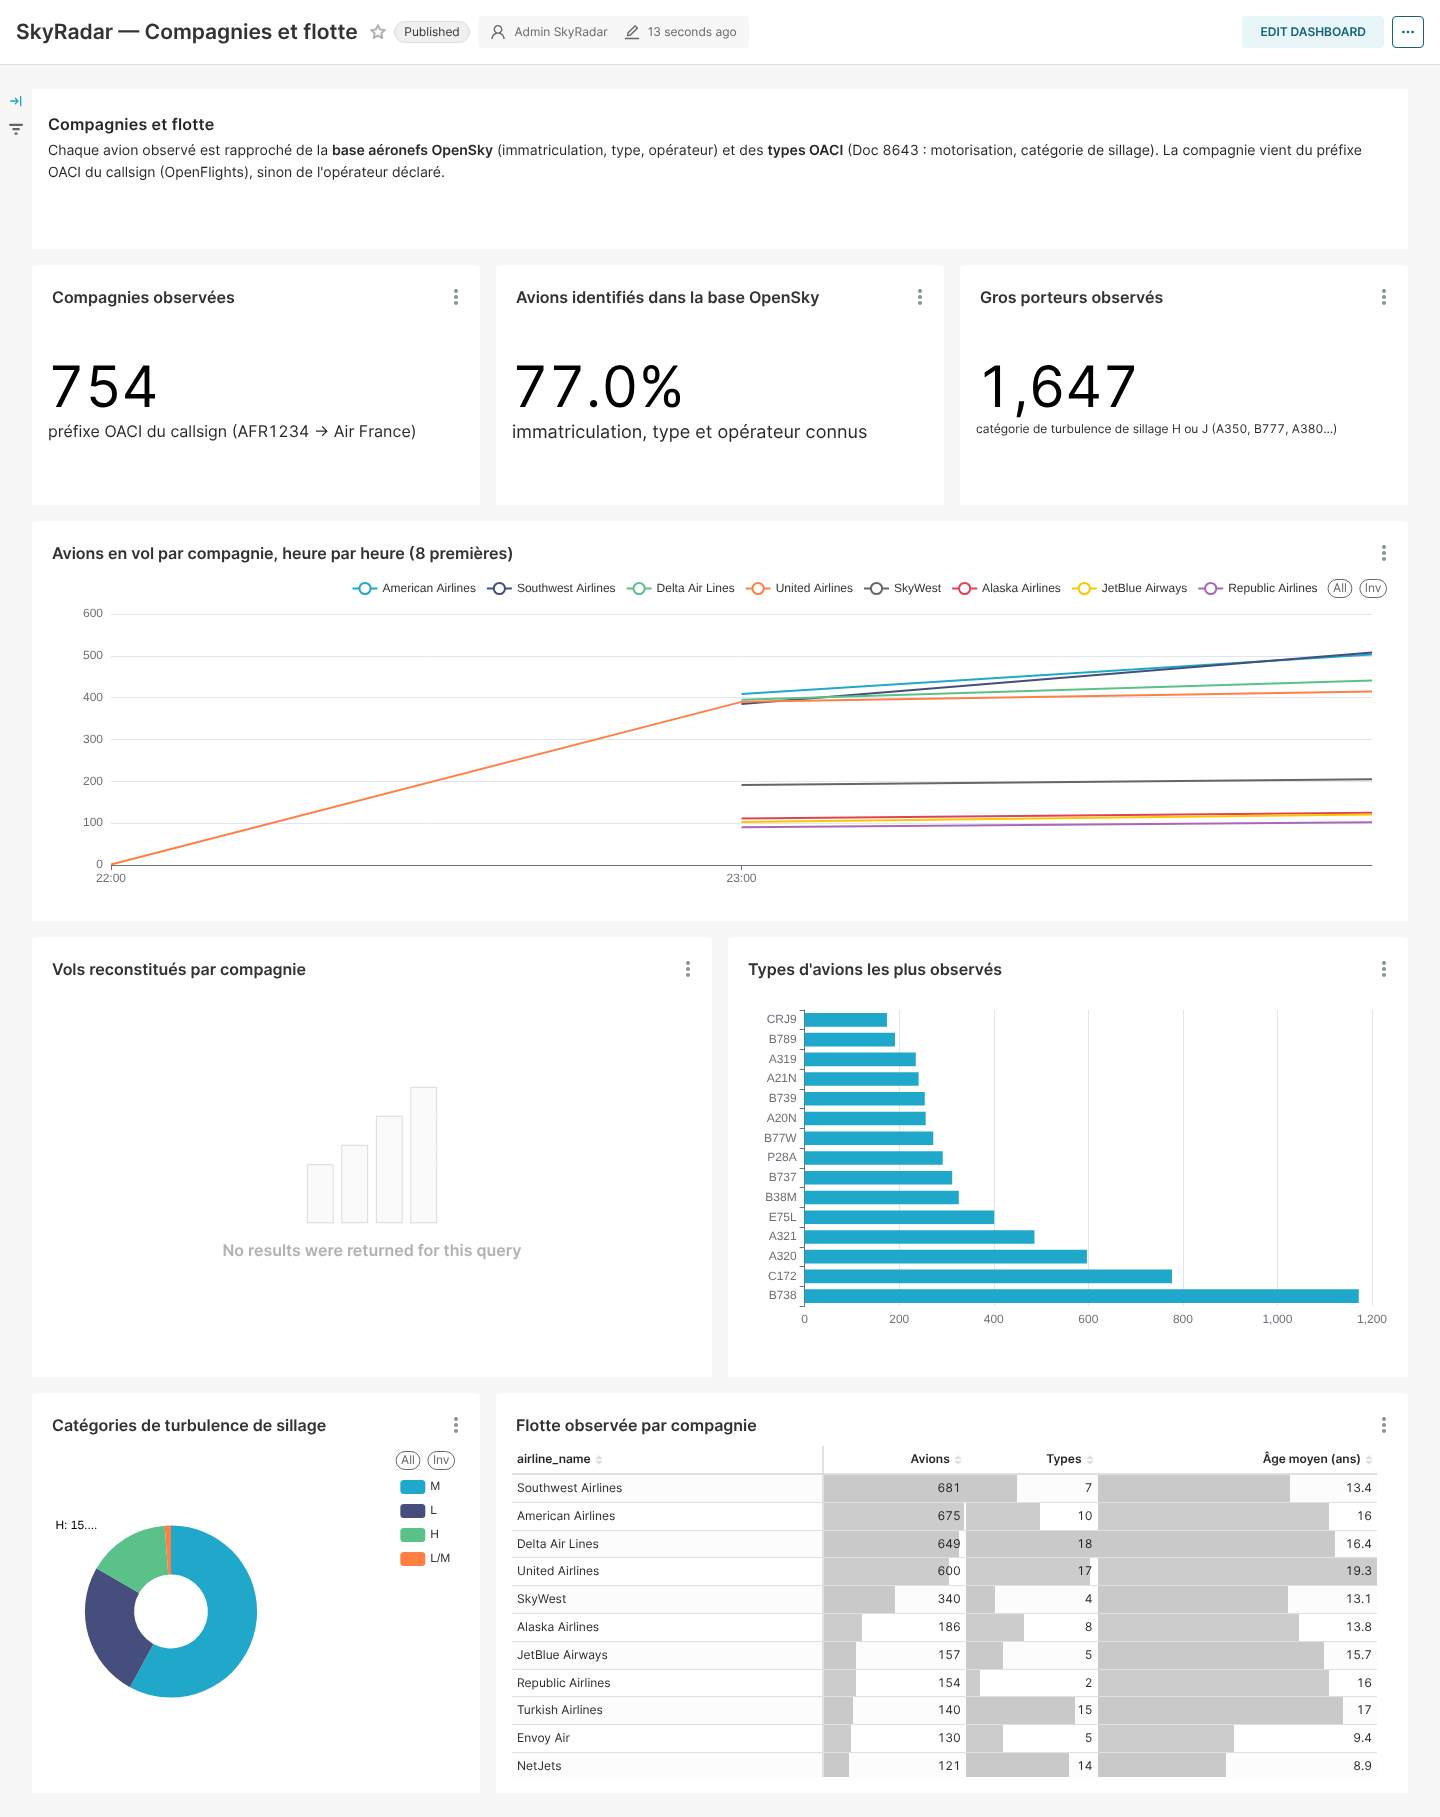
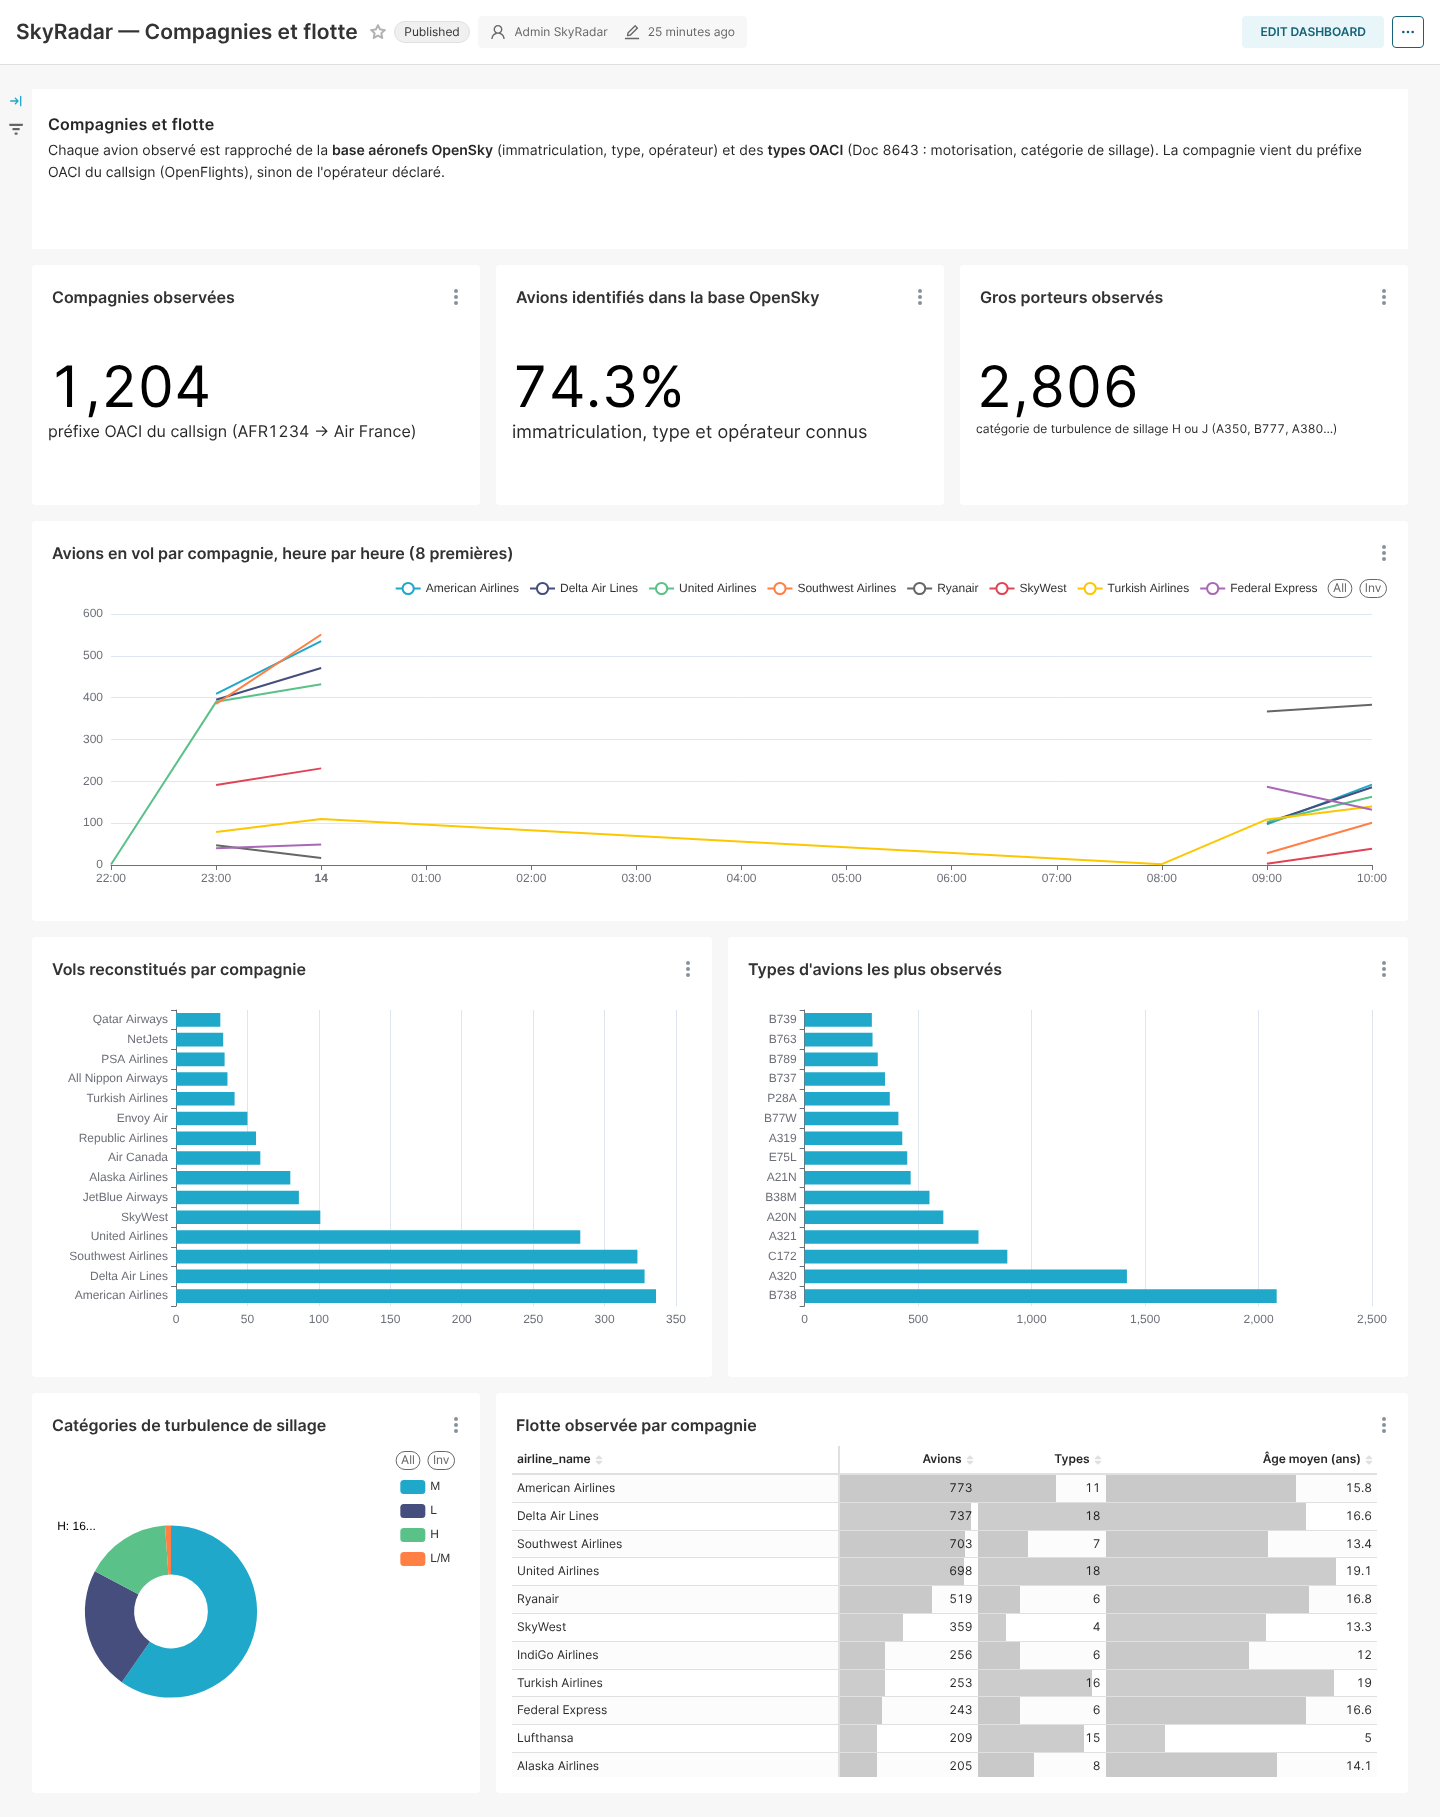
docs: fleet dashboard capture with reconstructed flights on real data

diff --git a/README.md b/README.md
@@ -159,10 +159,10 @@ par zone, les pays et les altitudes sont alimentés tout de suite ; les tableaux
 d'aéroports et de routes se remplissent après quelques heures d'historique.</sub>
 
 ![Dashboard Compagnies et flotte sur les données réelles](docs/images/superset-fleet.png)
-<sub>*Compagnies et flotte*, sur les données réelles : 77 % des ~14 000 avions observés sont
-identifiés dans la base OpenSky (type, immatriculation), la compagnie vient du callsign.
-Capture prise après 3 h d'ingestion : les vols reconstitués par compagnie n'apparaissent
-qu'avec plus d'historique.</sub>
+<sub>*Compagnies et flotte*, sur les données réelles (14/10/2026) : 74 % des ~24 000 avions
+observés sont identifiés dans la base OpenSky (type, immatriculation), la compagnie vient du
+callsign ; 4 300 vols reconstitués. Le creux de la courbe horaire (00 h - 09 h UTC) est une
+interruption de l'ingestion dans l'environnement de démonstration, pas une absence de trafic.</sub>
 
 ![Dashboard des modèles de ML](docs/images/superset-ml.png)
 <sub>*Modèles ML* : MAE de l'ETA contre la baseline, historique des métriques, trafic observé
